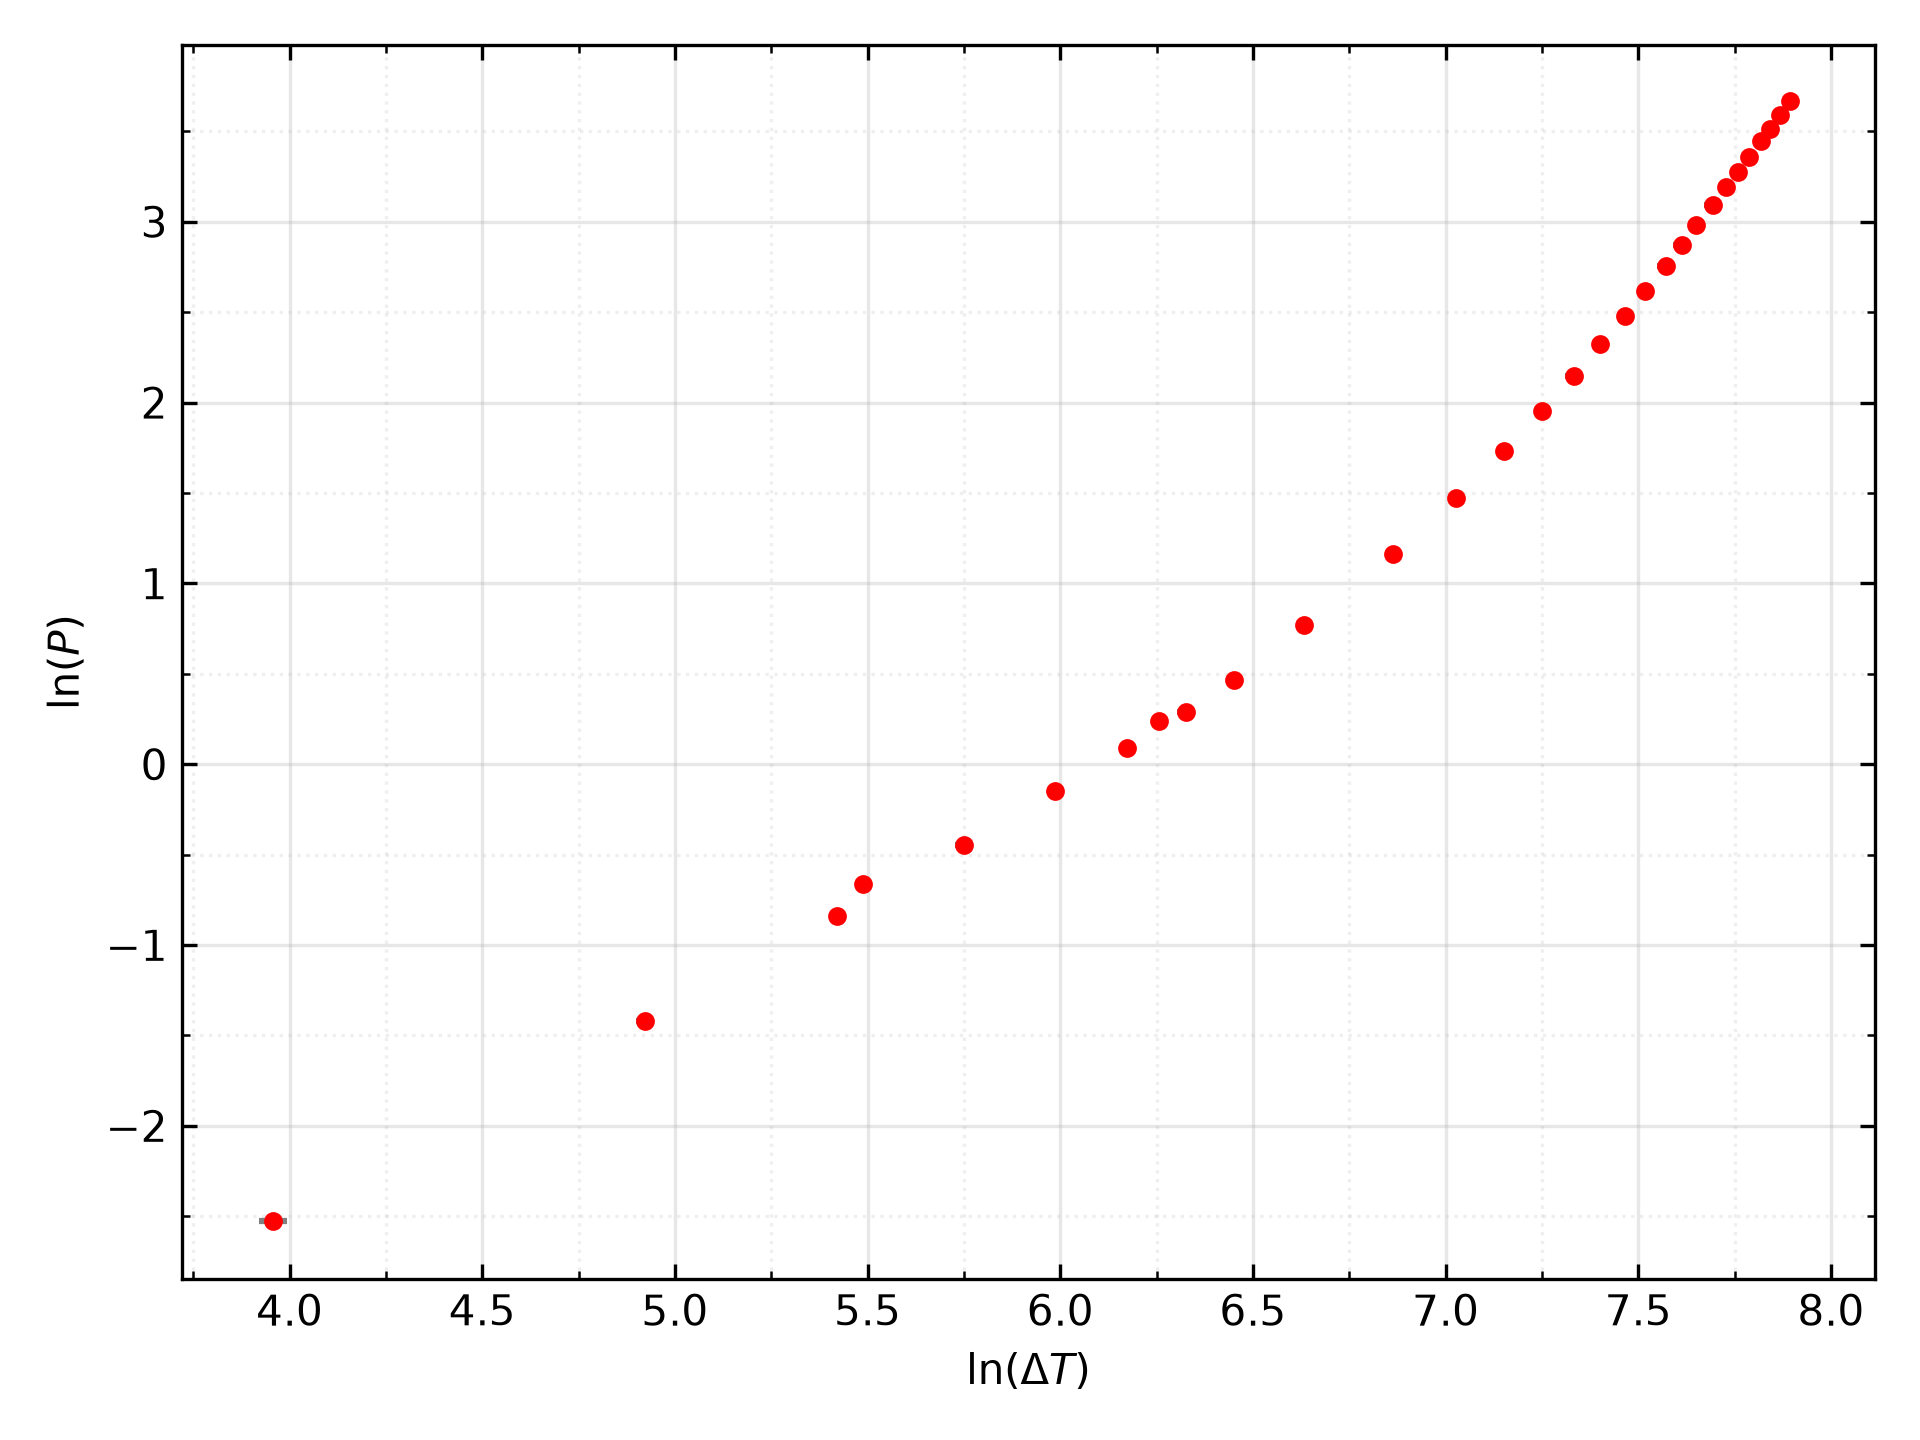
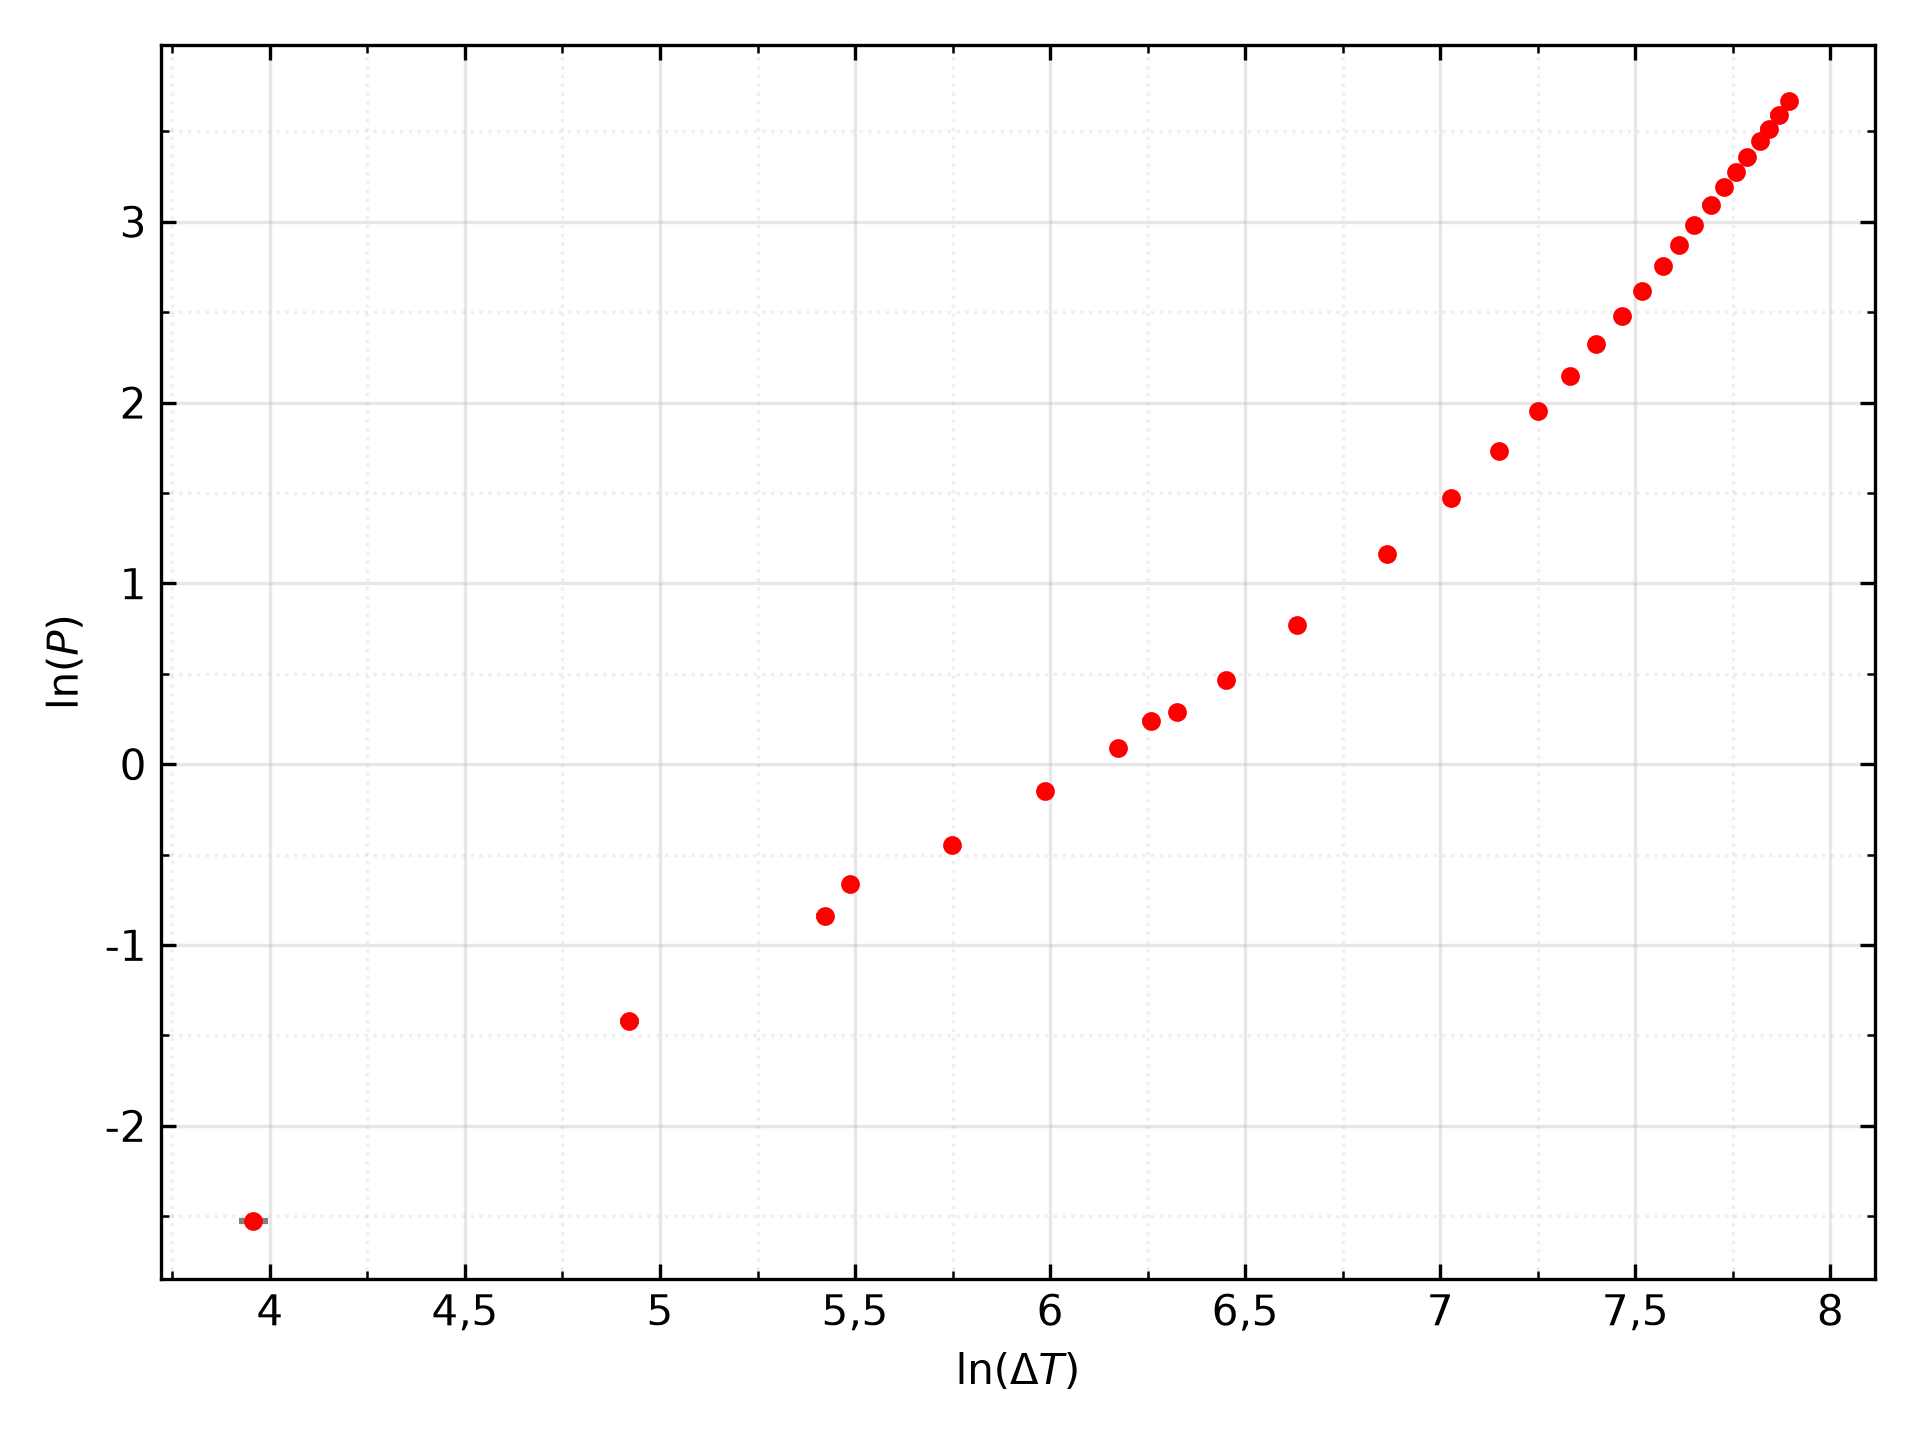
lab termo - P1b

diff --git a/lab_termo/P1b.py b/lab_termo/P1b.py
@@ -1,7 +1,12 @@
 
 
+def coma(x, fmt=".3g"):
+    return format(x, fmt).replace(".", ",")
+
 import matplotlib.pyplot as plt
 from matplotlib.ticker import AutoMinorLocator
+from matplotlib.ticker import FuncFormatter
+
 
 def graph(x, y, xerr=[], yerr=[], name="prova", xname="eix X", yname="eix Y", title="Gràfica", autoSave=True, line=False):
 
@@ -42,6 +47,10 @@ def graph(x, y, xerr=[], yerr=[], name="prova", xname="eix X", yname="eix Y", ti
     # Subticks
     ax.xaxis.set_minor_locator(AutoMinorLocator(2))
     ax.yaxis.set_minor_locator(AutoMinorLocator(2))
+
+    fmt = FuncFormatter(lambda x, _: f"{x:g}".replace('.', ','))
+    ax.xaxis.set_major_formatter(fmt)
+    ax.yaxis.set_major_formatter(fmt)
 
     # Eixos als quatre costats
     ax.tick_params(
@@ -113,9 +122,9 @@ def graphReg(x, y, xerr=[], yerr=[], name="prova", xname="eix X", yname="eix Y",
     eps = 0.2
     etiqueta = (
         f"Regressió lineal:\n"
-        f"$Pendent = {pendent:.3f} \\pm {err_pendent:.3f}$\n"
-        f"$Ordenada = {ordenada:.3f} \\pm {err_ordenada:.3f}$\n"
-        f"$R^2 = {r2:.4f}$"
+        f"$Pendent = {coma(pendent, '.3f')} \\pm {coma(err_pendent, '.3f')}$\n"
+        f"$Ordenada = {coma(ordenada, '.3f')} \\pm {coma(err_ordenada, '.3f')}$\n"
+        f"$R^2 = {coma(r2, ".4f")}$"
     )
     ax.plot(
         [x[0]-eps, x[-1]+eps],
@@ -141,6 +150,10 @@ def graphReg(x, y, xerr=[], yerr=[], name="prova", xname="eix X", yname="eix Y",
     # Subticks
     ax.xaxis.set_minor_locator(AutoMinorLocator(2))
     ax.yaxis.set_minor_locator(AutoMinorLocator(2))
+
+    fmt = FuncFormatter(lambda x, _: f"{x:g}".replace('.', ','))
+    ax.xaxis.set_major_formatter(fmt)
+    ax.yaxis.set_major_formatter(fmt)
 
     # Eixos als quatre costats
     ax.tick_params(
@@ -180,6 +193,50 @@ T_ambient = 27.3+273.15
 
 #Q7
 
+fig, ax = graph(T, Rad, xerr=inc_T, yerr=inc_Rad, xname=r"Temperatura, $T(K)$", yname=r"Radiació emesa, $P(\mu W$)", title="Regressió de la radiació emesa en funció de la temperatura\n(Sense els 12 primers punts)", autoSave=False)
+
+
+lnRad = np.log(Rad)
+
+lnT   = np.log(T)
+
+
+coef, cov = np.polyfit(lnT, lnRad, 1, cov=True)
+
+pendent = coef[0]
+ordenada = coef[1]
+
+inc_pendent = np.sqrt(cov[0, 0])
+inc_ordenada = np.sqrt(cov[1, 1])
+
+# Coeficient de determinació R²
+y_ajust = pendent * lnT + ordenada
+ss_res = np.sum((lnRad - y_ajust) ** 2)
+ss_tot = np.sum((lnRad - np.mean(lnRad)) ** 2)
+r2 = 1 - ss_res / ss_tot
+
+print("___Q7___")
+print(f"Pendent = {pendent:.3f} ± {inc_pendent:.3f}")
+print(f"Ordenada = {ordenada:.3f} ± {inc_ordenada:.3f}\n")
+
+def coma_math(x, fmt=".3f"):
+    # per usar dins de $...$: la coma entre claus evita l'espai
+    return format(x, fmt).replace(".", "{,}")
+
+etiqueta = "\n".join([
+    "Ajust:",
+    rf"$\mathrm{{Exponent}} = {coma_math(pendent)} \pm {coma_math(inc_pendent)}$",
+    rf"$\ln(e\sigma A) = {coma_math(ordenada)} \pm {coma_math(inc_ordenada)}$",
+    rf"$R^2 = {coma_math(r2, '.4f')}$",
+])
+
+eix_x = np.linspace(int(T[0]-50), int(T[-1]+50), 1000)
+plt.plot(eix_x, eix_x**pendent * np.e**ordenada, color="crimson", linestyle="--", alpha=0.5, label=etiqueta)
+
+plt.legend(loc="best")
+
+plt.savefig(f"GraficsP1b/Q7a.png", dpi=300)
+
 fig, ax = graph(T[11:], Rad[11:], xerr=inc_T[11:], yerr=inc_Rad[11:], xname=r"Temperatura, $T(K)$", yname=r"Radiació emesa, $P(\mu W$)", title="Regressió de la radiació emesa en funció de la temperatura\n(Sense els 12 primers punts)", autoSave=False)
 
 
@@ -208,9 +265,9 @@ print(f"Ordenada = {ordenada:.3f} ± {inc_ordenada:.3f}\n")
 
 etiqueta = "\n".join([
     "Ajust:",
-    rf"$\mathrm{{Exponent}} = {pendent:.3f} \pm {inc_pendent:.3f}$",
-    rf"$e\sigma A = {ordenada:.2f} \pm {inc_ordenada:.2f}$",
-    rf"$R^2 = {r2:.4f}$",
+    rf"$\mathrm{{Exponent}} = {coma_math(pendent)} \pm {coma_math(inc_pendent)}$",
+    rf"$\ln(e\sigma A) = {coma_math(ordenada)} \pm {coma_math(inc_ordenada)}$",
+    rf"$R^2 = {coma_math(r2, '.4f')}$",
 ])
 
 eix_x = np.linspace(int(T[11]-50), int(T[-1]+50), 1000)
